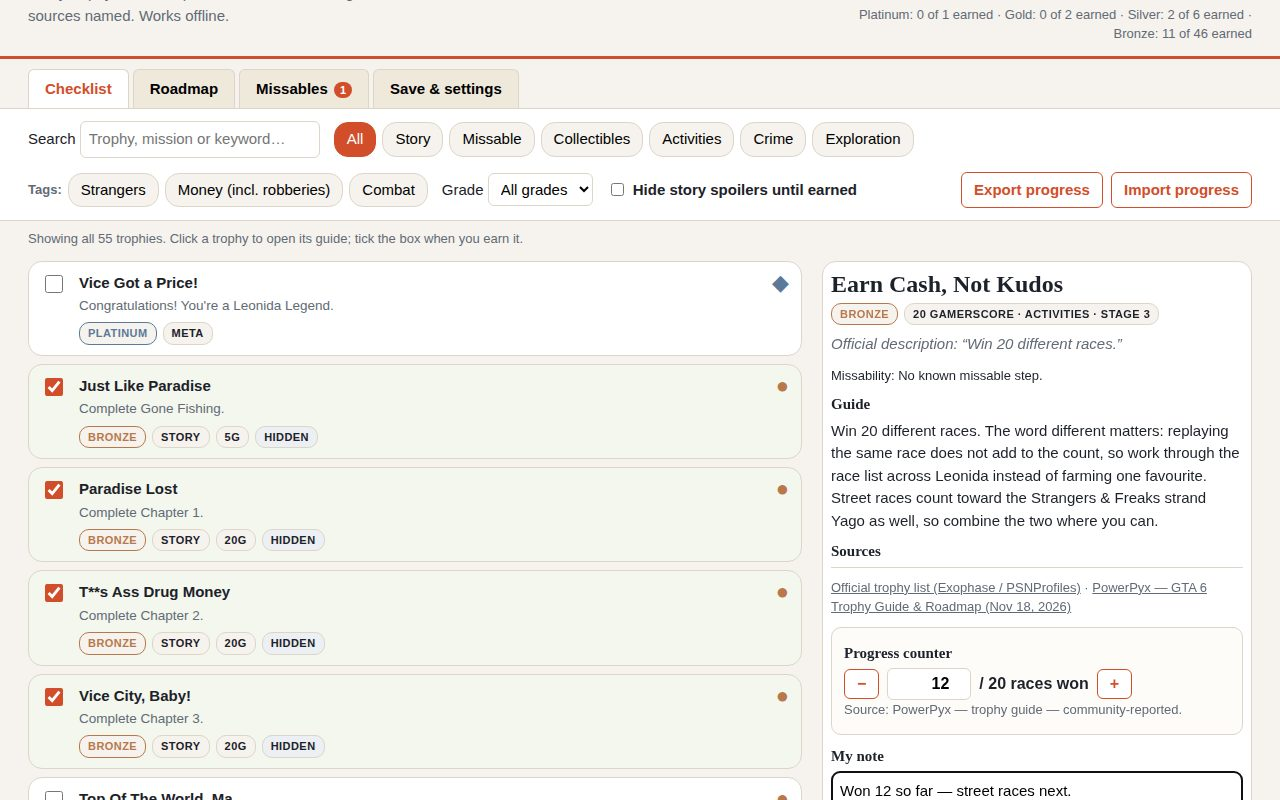
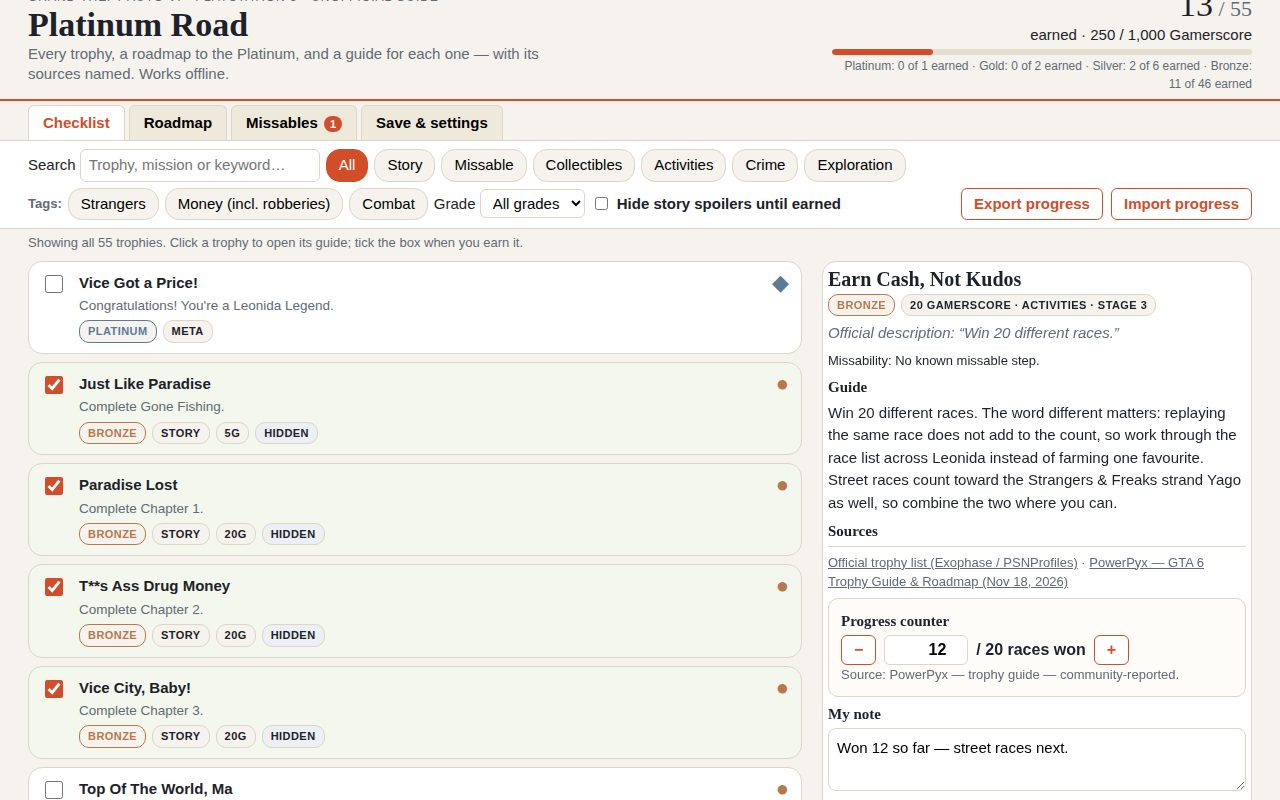
Platinum Road v2 fix: cover title fully visible
Compress header/tabs/controls/guide-pane spacing (~133px) so the
1280x800 cover at scroll 20 shows the 'Platinum Road' title fully
(title top 8px) together with 'Silver: 2 of 6 earned', the Earn Cash
guide + sources, counter 12/20 and the saved note (bottom 791px).
Re-captured all four screenshots with the new CSS; fixed shots.json
cover path (trophy 19, Earn Cash — v2 listed 17). No trophy data,
counters, filters or wording changed.

diff --git a/app/style.css b/app/style.css
@@ -23,22 +23,22 @@ a { color: var(--accent); }
 button { font: inherit; cursor: pointer; }
 .site-header {
   display: flex; justify-content: space-between; gap: 24px; flex-wrap: wrap;
-  padding: 20px 28px 12px; border-bottom: 3px solid var(--accent);
+  padding: 8px 28px 6px; border-bottom: 2px solid var(--accent);
 }
-.eyebrow { margin: 0 0 4px; font-size: 12px; letter-spacing: .08em; text-transform: uppercase; color: var(--muted); }
-.site-header h1 { margin: 0; font-size: 42px; line-height: 1; }
-.subtitle { margin: 8px 0 0; max-width: 560px; color: var(--muted); }
+.eyebrow { margin: 0 0 2px; font-size: 12px; letter-spacing: .08em; text-transform: uppercase; color: var(--muted); }
+.site-header h1 { margin: 0; font-size: 34px; line-height: 1; }
+.subtitle { margin: 2px 0 0; max-width: 560px; color: var(--muted); line-height: 1.35; }
 .progress-block { text-align: right; min-width: 260px; max-width: 420px; }
-.big-count { margin: 0; font-family: "Iowan Old Style", Palatino, Georgia, serif; font-size: 44px; line-height: 1; }
+.big-count { margin: 0; font-family: "Iowan Old Style", Palatino, Georgia, serif; font-size: 34px; line-height: 1; }
 .big-count .of { font-size: 22px; color: var(--muted); }
-.progress-line { margin: 6px 0 0; }
-.progress-line.small { font-size: 13px; color: var(--muted); }
-.progress-bar { height: 8px; background: #e5ded0; border-radius: 6px; margin-top: 8px; overflow: hidden; }
+.progress-line { margin: 2px 0 0; }
+.progress-line.small { font-size: 12px; color: var(--muted); }
+.progress-bar { height: 6px; background: #e5ded0; border-radius: 6px; margin-top: 2px; overflow: hidden; }
 .progress-fill { height: 100%; width: 0; background: var(--accent); border-radius: 6px; }
-.tabs { display: flex; gap: 4px; padding: 10px 28px 0; flex-wrap: wrap; }
+.tabs { display: flex; gap: 4px; padding: 4px 28px 0; flex-wrap: wrap; }
 .tab {
   border: 1px solid var(--line); border-bottom: none; background: #efe9dc;
-  padding: 8px 16px; border-radius: 6px 6px 0 0; font-weight: 600;
+  padding: 6px 14px; border-radius: 6px 6px 0 0; font-weight: 600;
 }
 .tab.active { background: var(--card); color: var(--accent); }
 .tab-badge {
@@ -46,28 +46,28 @@ button { font: inherit; cursor: pointer; }
   font-size: 11px; padding: 0 6px; margin-left: 2px;
 }
 .controls {
-  display: flex; gap: 14px; align-items: center; flex-wrap: wrap;
-  padding: 12px 28px; background: var(--card); border-top: 1px solid var(--line); border-bottom: 1px solid var(--line);
+  display: flex; gap: 6px; align-items: center; flex-wrap: wrap;
+  padding: 8px 28px; background: var(--card); border-top: 1px solid var(--line); border-bottom: 1px solid var(--line);
 }
 .search-label input, .grade-label select {
-  font: inherit; padding: 6px 8px; border: 1px solid var(--line); border-radius: 6px; background: #fff;
+  font: inherit; padding: 4px 8px; border: 1px solid var(--line); border-radius: 6px; background: #fff;
 }
 .search-label input { width: 240px; }
 .kind-filters { display: flex; gap: 6px; flex-wrap: wrap; align-items: center; }
 .tag-label { font-weight: 700; font-size: 13px; color: var(--muted); }
 .chip {
-  border: 1px solid var(--line); background: var(--paper); border-radius: 14px; padding: 5px 12px;
+  border: 1px solid var(--line); background: var(--paper); border-radius: 14px; padding: 4px 12px;
 }
 .chip.active { background: var(--accent); border-color: var(--accent); color: #fff; }
 .spoiler-toggle { display: flex; gap: 6px; align-items: center; font-weight: 600; }
 .control-buttons { display: flex; gap: 8px; margin-left: auto; }
 .control-buttons button, .import-btn, .save-panel button {
   border: 1px solid var(--accent); background: #fff; color: var(--accent);
-  border-radius: 6px; padding: 6px 12px; font-weight: 600;
+  border-radius: 6px; padding: 4px 12px; font-weight: 600;
 }
 .import-btn input { display: none; }
-.filter-note { margin: 8px 28px 0; color: var(--muted); font-size: 13px; min-height: 18px; }
-main { padding: 12px 28px 28px; }
+.filter-note { margin: 4px 28px 0; color: var(--muted); font-size: 13px; min-height: 18px; }
+main { padding: 8px 28px 28px; }
 .view.hidden { display: none; }
 .checklist-layout { display: grid; grid-template-columns: minmax(0, 1fr) 430px; gap: 20px; align-items: start; }
 .trophy-list { display: flex; flex-direction: column; gap: 8px; }
@@ -83,7 +83,7 @@ main { padding: 12px 28px 28px; }
 .trophy-name { display: block; font-weight: 700; font-size: 15px; }
 .trophy-name .hidden-tag { color: var(--muted); font-weight: 600; font-size: 12px; }
 .trophy-desc { display: block; color: var(--muted); font-size: 13.5px; margin-top: 2px; }
-.trophy-meta { display: flex; gap: 6px; margin-top: 6px; flex-wrap: wrap; }
+.trophy-meta { display: flex; gap: 6px; margin-top: 4px; flex-wrap: wrap; }
 .badge {
   font-size: 11px; font-weight: 700; letter-spacing: .04em; text-transform: uppercase;
   border-radius: 10px; padding: 2px 8px; border: 1px solid var(--line); background: var(--paper);
@@ -99,24 +99,24 @@ main { padding: 12px 28px 28px; }
 .grade-dot { font-size: 22px; line-height: 1; }
 .guide-pane {
   position: sticky; top: 12px; background: var(--card); border: 1px solid var(--line);
-  border-radius: 14px; padding: 8px; max-height: calc(100vh - 24px); overflow: auto;
+  border-radius: 14px; padding: 5px; max-height: calc(100vh - 24px); overflow: auto;
 }
-.guide-pane h2 { margin: 0 0 4px; font-size: 24px; line-height: 1.2; }
-.guide-pane .official-desc { color: var(--muted); font-style: italic; margin: 0 0 10px; }
-.guide-pane h3 { margin: 8px 0 4px; font-size: 15px; }
-.guide-pane p { margin: 0 0 8px; }
+.guide-pane h2 { margin: 0 0 3px; font-size: 20px; line-height: 1.2; }
+.guide-pane .official-desc { color: var(--muted); font-style: italic; margin: 0 0 6px; }
+.guide-pane h3 { margin: 6px 0 3px; font-size: 15px; }
+.guide-pane p { margin: 0 0 6px; }
 .guide-text { font-size: 15px; }
-.sources { font-size: 13px; color: var(--muted); border-top: 1px solid var(--line); padding-top: 10px; }
+.sources { font-size: 13px; color: var(--muted); border-top: 1px solid var(--line); padding-top: 6px; }
 .sources a { color: var(--muted); }
 .verification-note { font-size: 13px; background: var(--accent-soft); border-radius: 6px; padding: 8px 10px; }
 .verification-note.unconfirmed { background: #fff4d6; }
 .empty-pane { color: var(--muted); }
 /* v2: progress counter and personal note in the guide pane. */
-.counter-box { border: 1px solid var(--line); border-radius: 10px; padding: 6px 12px; margin: 10px 0; background: #fdfcf9; }
+.counter-box { border: 1px solid var(--line); border-radius: 10px; padding: 5px 12px; margin: 6px 0; background: #fdfcf9; }
 .counter-box .counter-line { display: flex; gap: 8px; align-items: center; flex-wrap: wrap; font-weight: 700; font-size: 16px; }
 .counter-box button { border: 1px solid var(--accent); background: #fff; color: var(--accent); border-radius: 6px; padding: 2px 12px; font-weight: 700; font-size: 16px; }
-.counter-box input { font: inherit; font-weight: 700; width: 84px; padding: 3px 6px; border: 1px solid var(--line); border-radius: 6px; text-align: right; }
-.counter-src { font-size: 13px; color: var(--muted); margin: 6px 0 0; }
+.counter-box input { font: inherit; font-weight: 700; width: 84px; padding: 2px 6px; border: 1px solid var(--line); border-radius: 6px; text-align: right; }
+.counter-src { font-size: 13px; color: var(--muted); margin: 4px 0 0; }
 .condition-box { border: 1px solid var(--line); border-radius: 10px; padding: 10px 12px; margin: 10px 0; background: #fdfcf9; }
 .condition-box p { margin: 0; }
 .note-box textarea {
